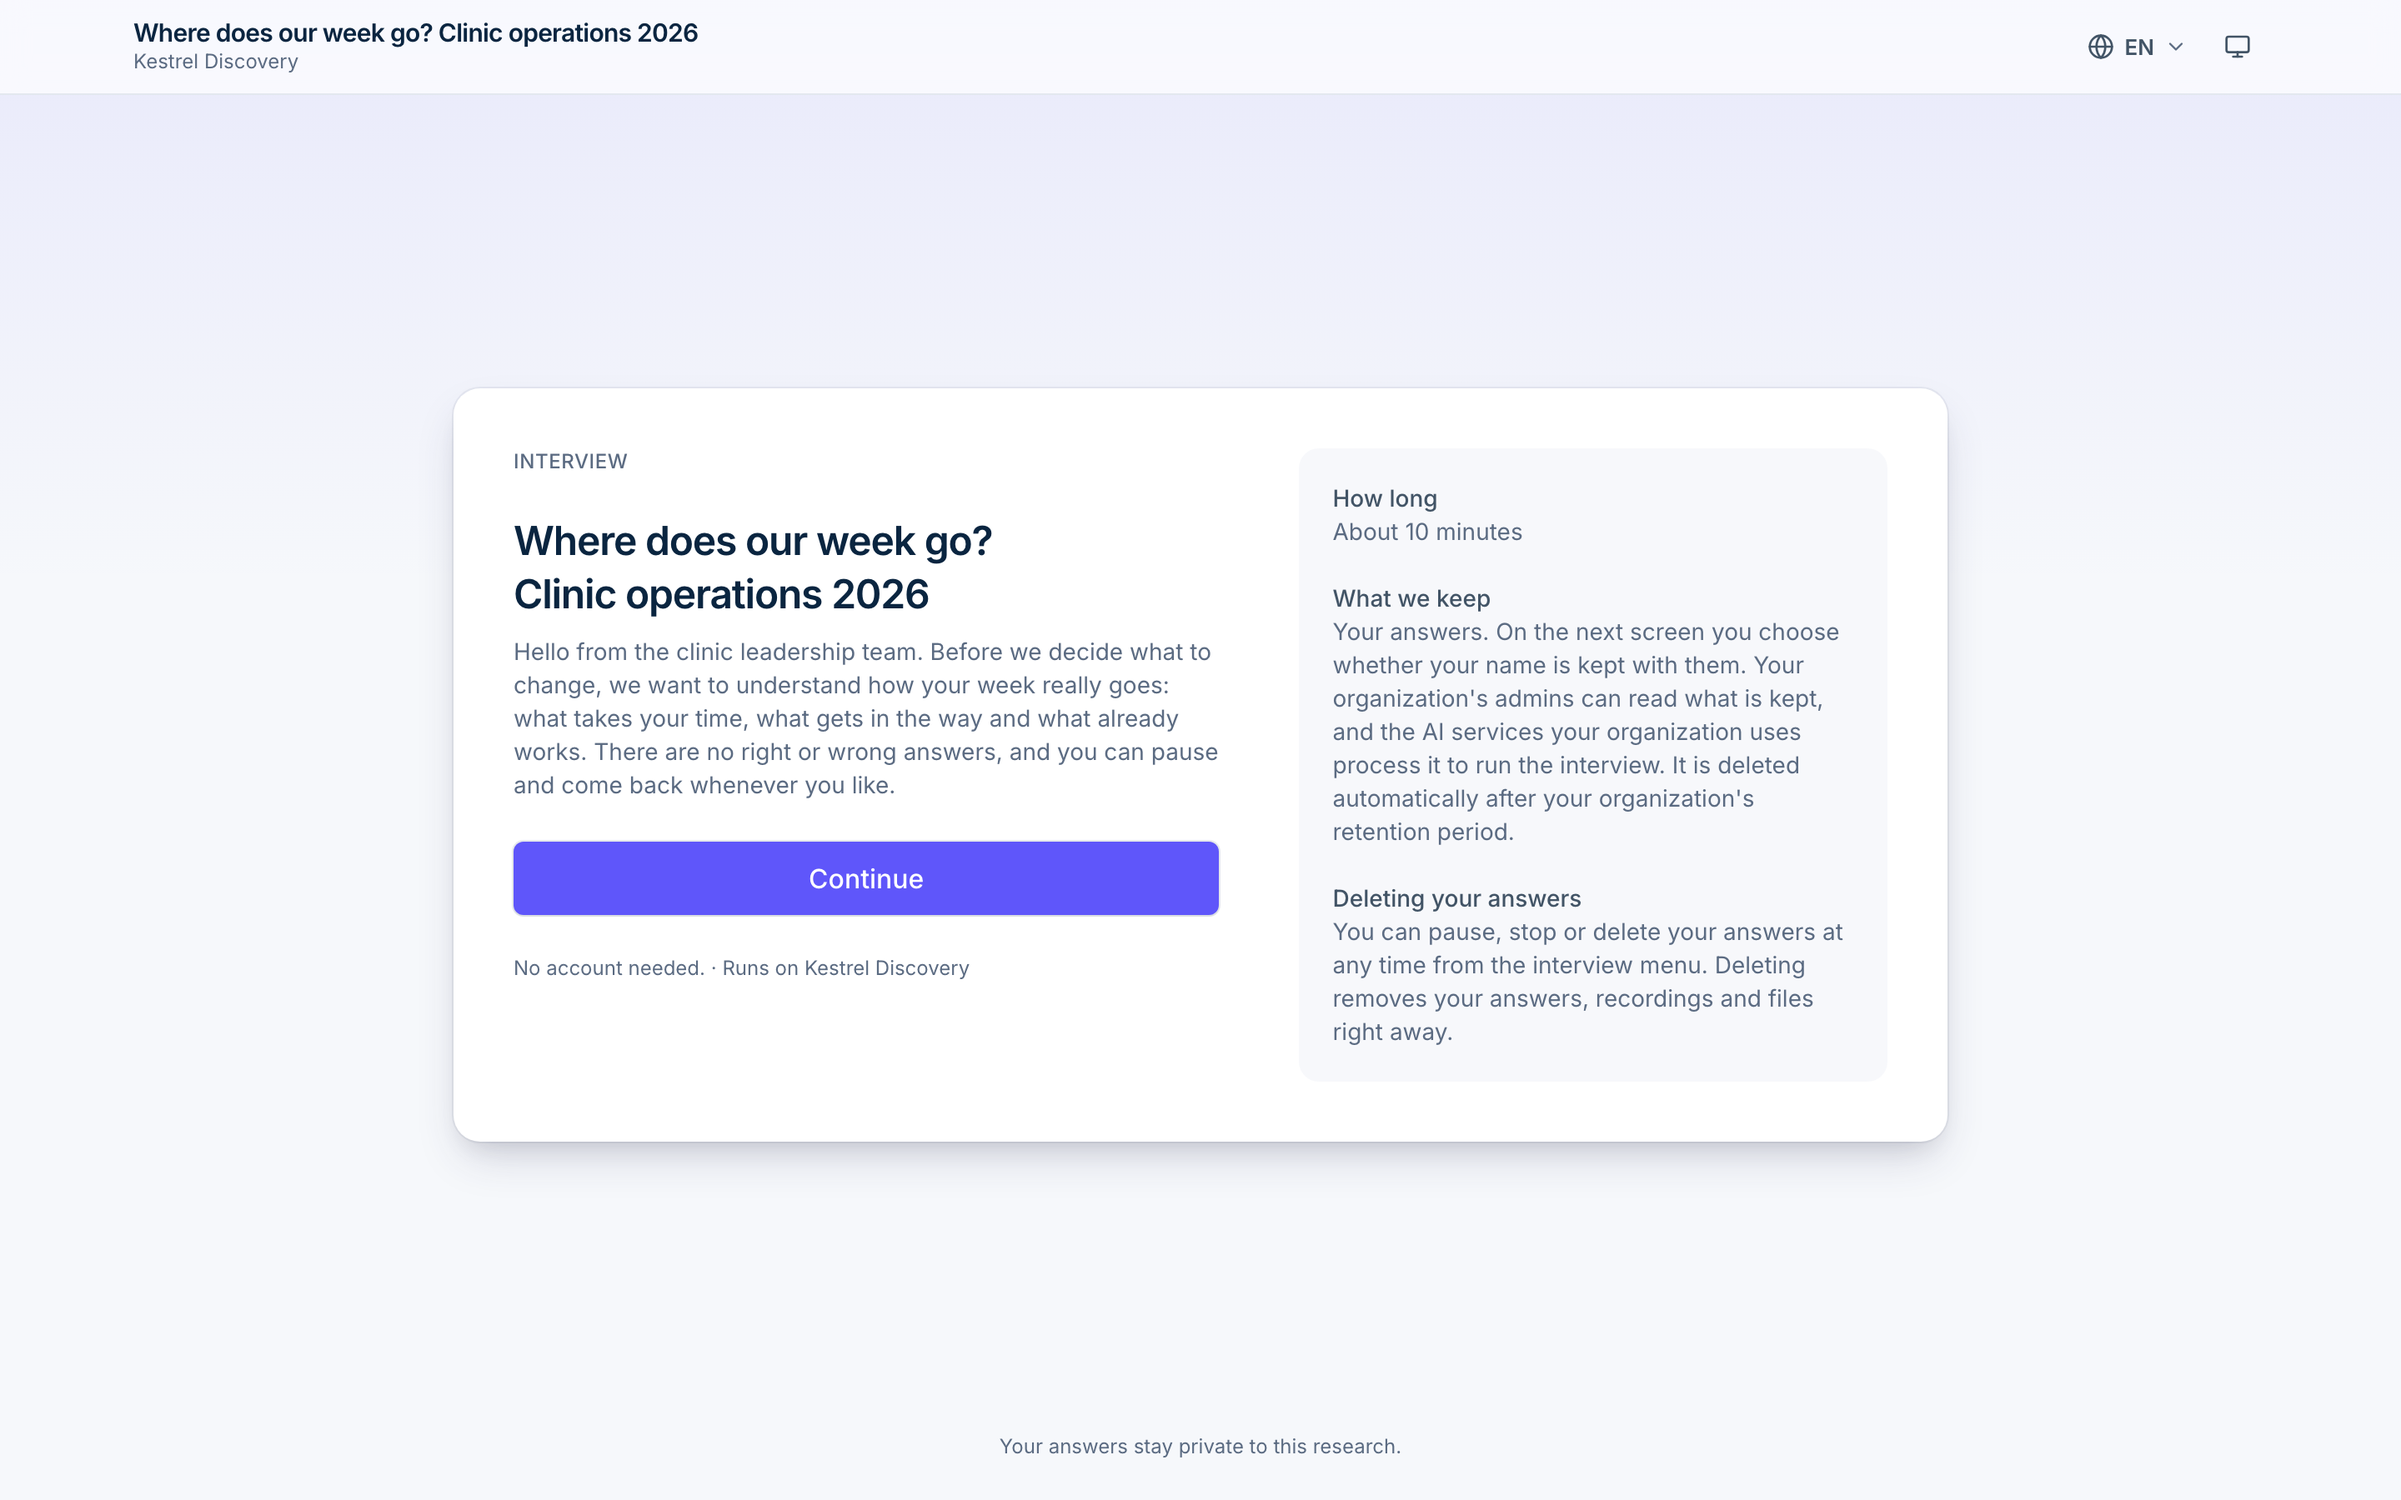
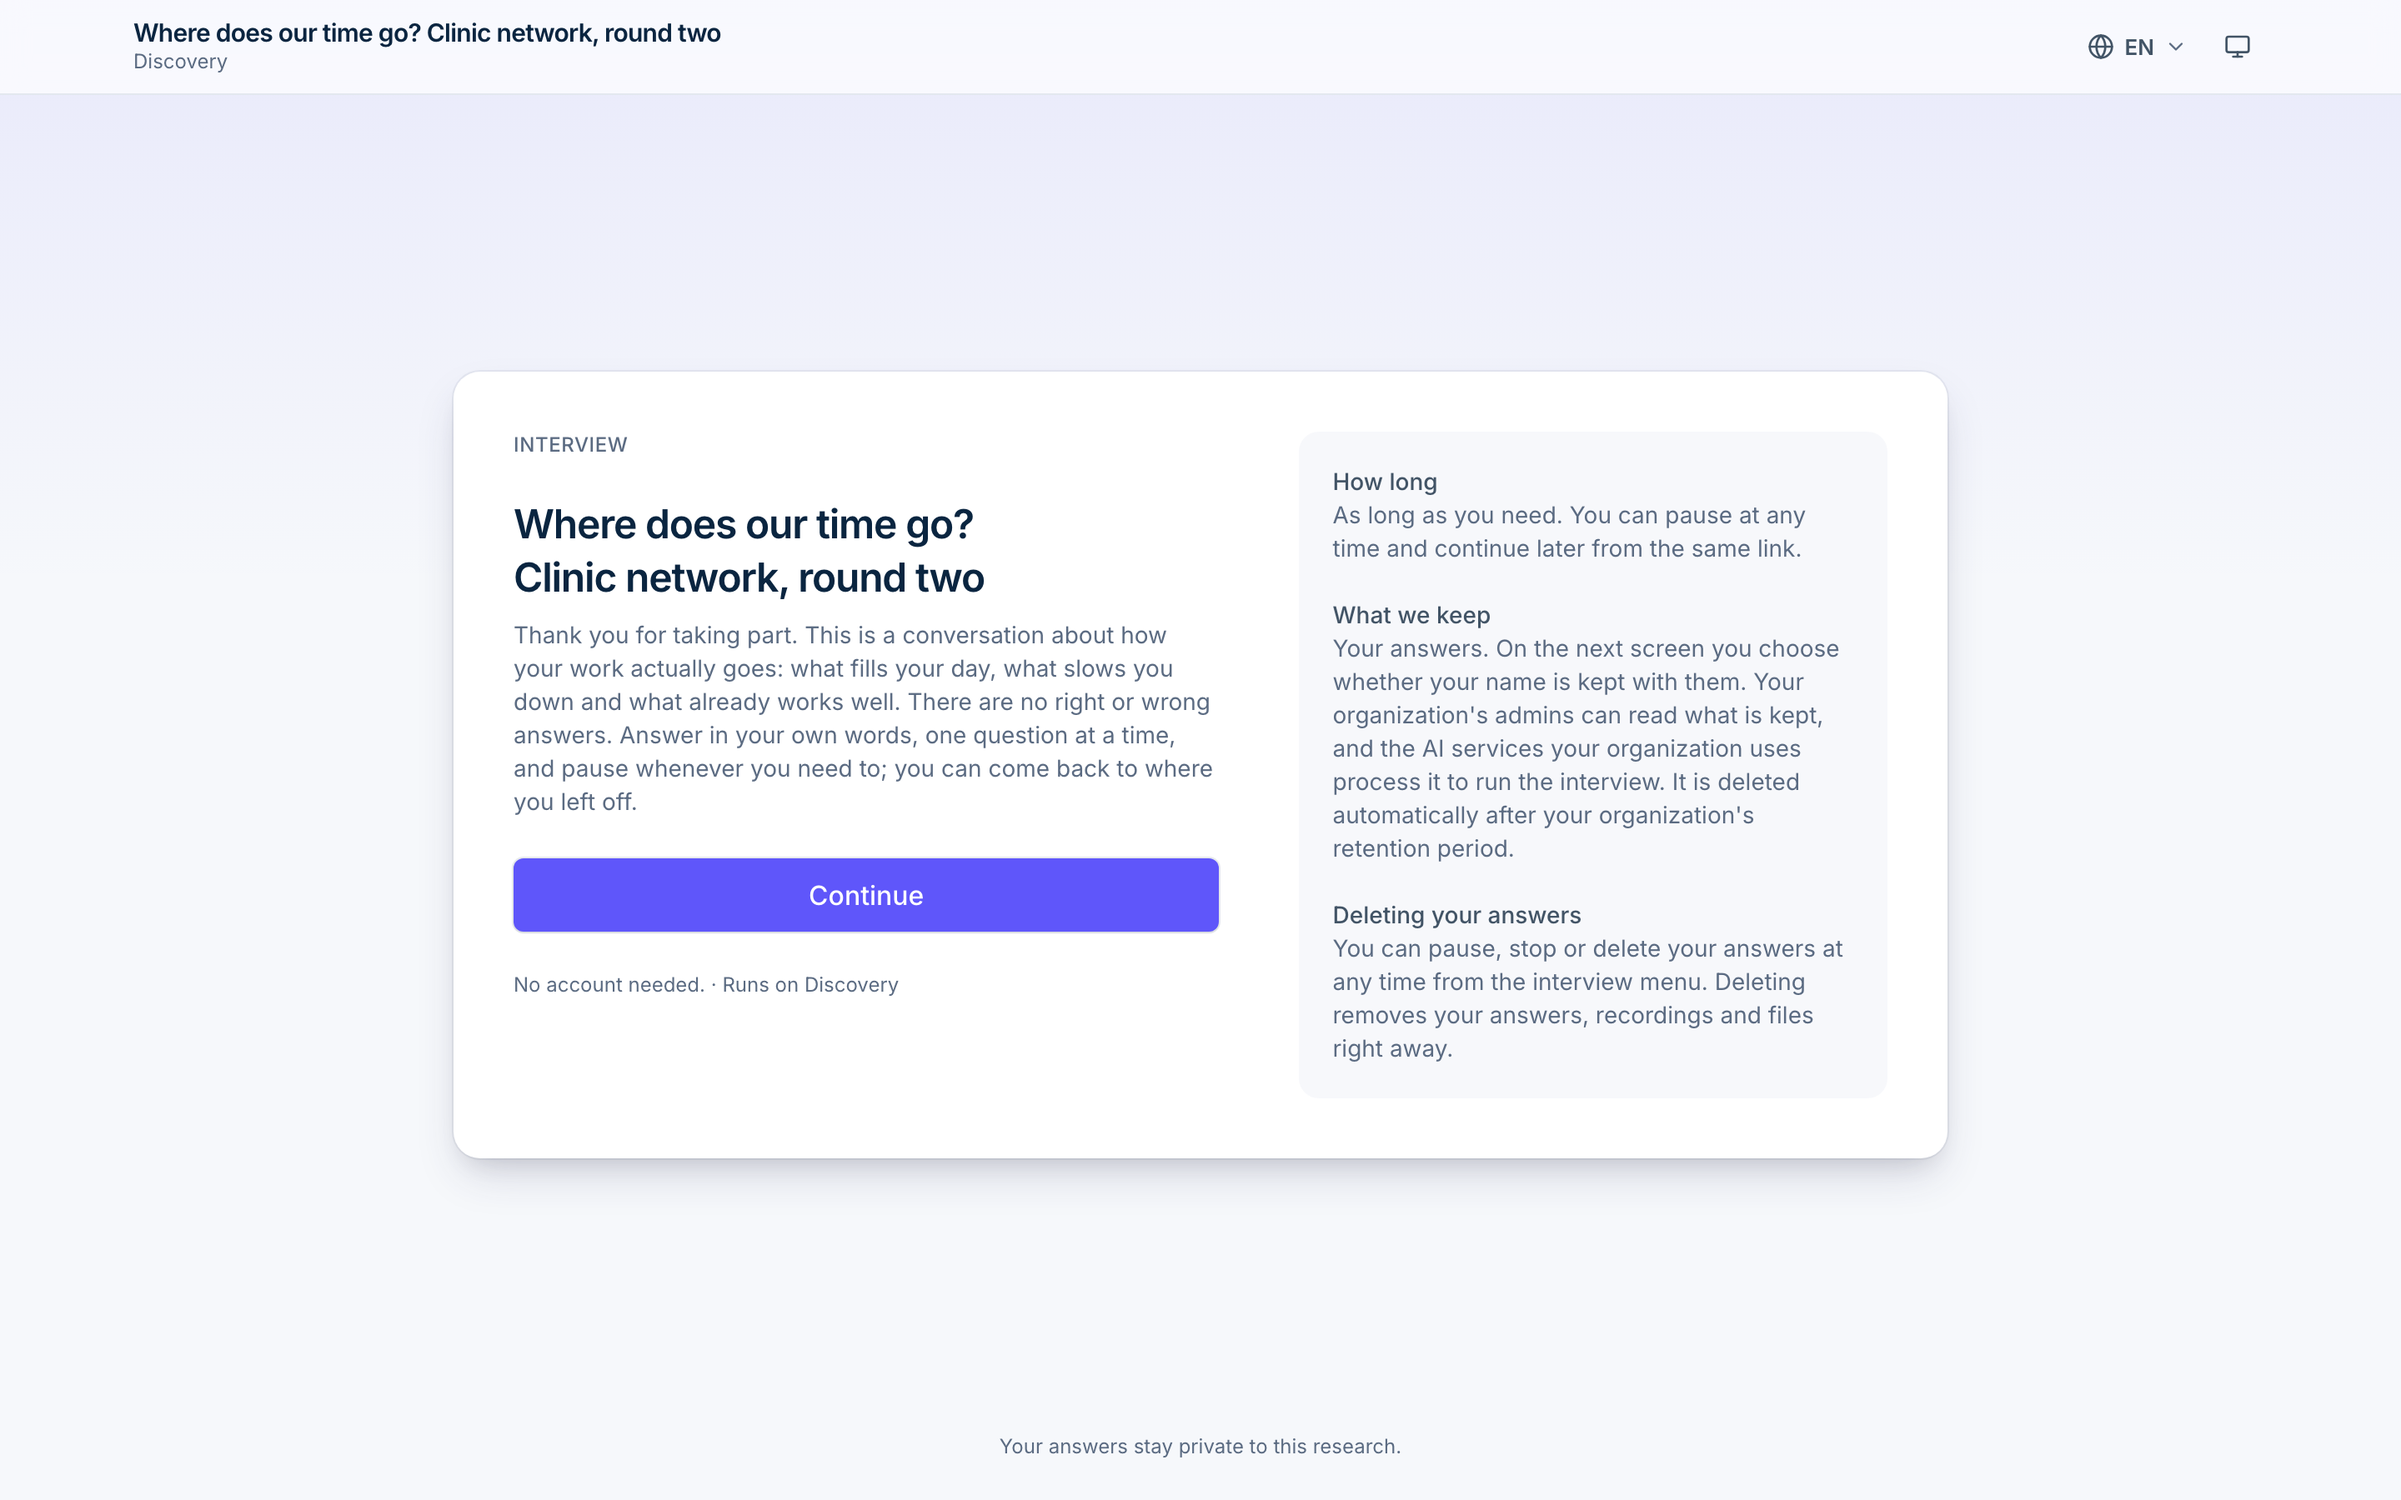
Marketing pictures 06 and 07 retaken on the measured-duration build (D-470)
Taken on a campaign with no finished interviews: the demo's first campaign would show a duration
measured from simulated participants, which claims B9 forbids quoting.

diff --git a/marketing/README.md b/marketing/README.md
@@ -60,6 +60,7 @@ simulated run on low-cost models, not a price.
   with `ONLY=10 INTERVIEW=1 MIC_WAV=... MIC_SECONDS=<length of the WAV>`.
 - **Finnish voice-over** is not written; the Finnish screenshots (27 to 29) are for Finnish decks.
   The demo campaign's welcome text is English, so it is English on the Finnish arrival picture.
-- **Pictures 06 and 07 say "About 10 minutes"** on the arrival screen; they were taken before D-470.
-  The current build states no duration until five interviews of the campaign have finished, then
-  their measured median. Retake them with `ONLY=06,07` against an upgraded stack.
+- **Pictures 06 and 07** are of a second campaign ("round two") with no finished interviews, so the
+  arrival screen says "As long as you need" rather than a duration. The demo's first campaign would
+  show "About 3 minutes": its interviews were answered by a simulator, and claims B9 forbids quoting
+  that (D-470).
